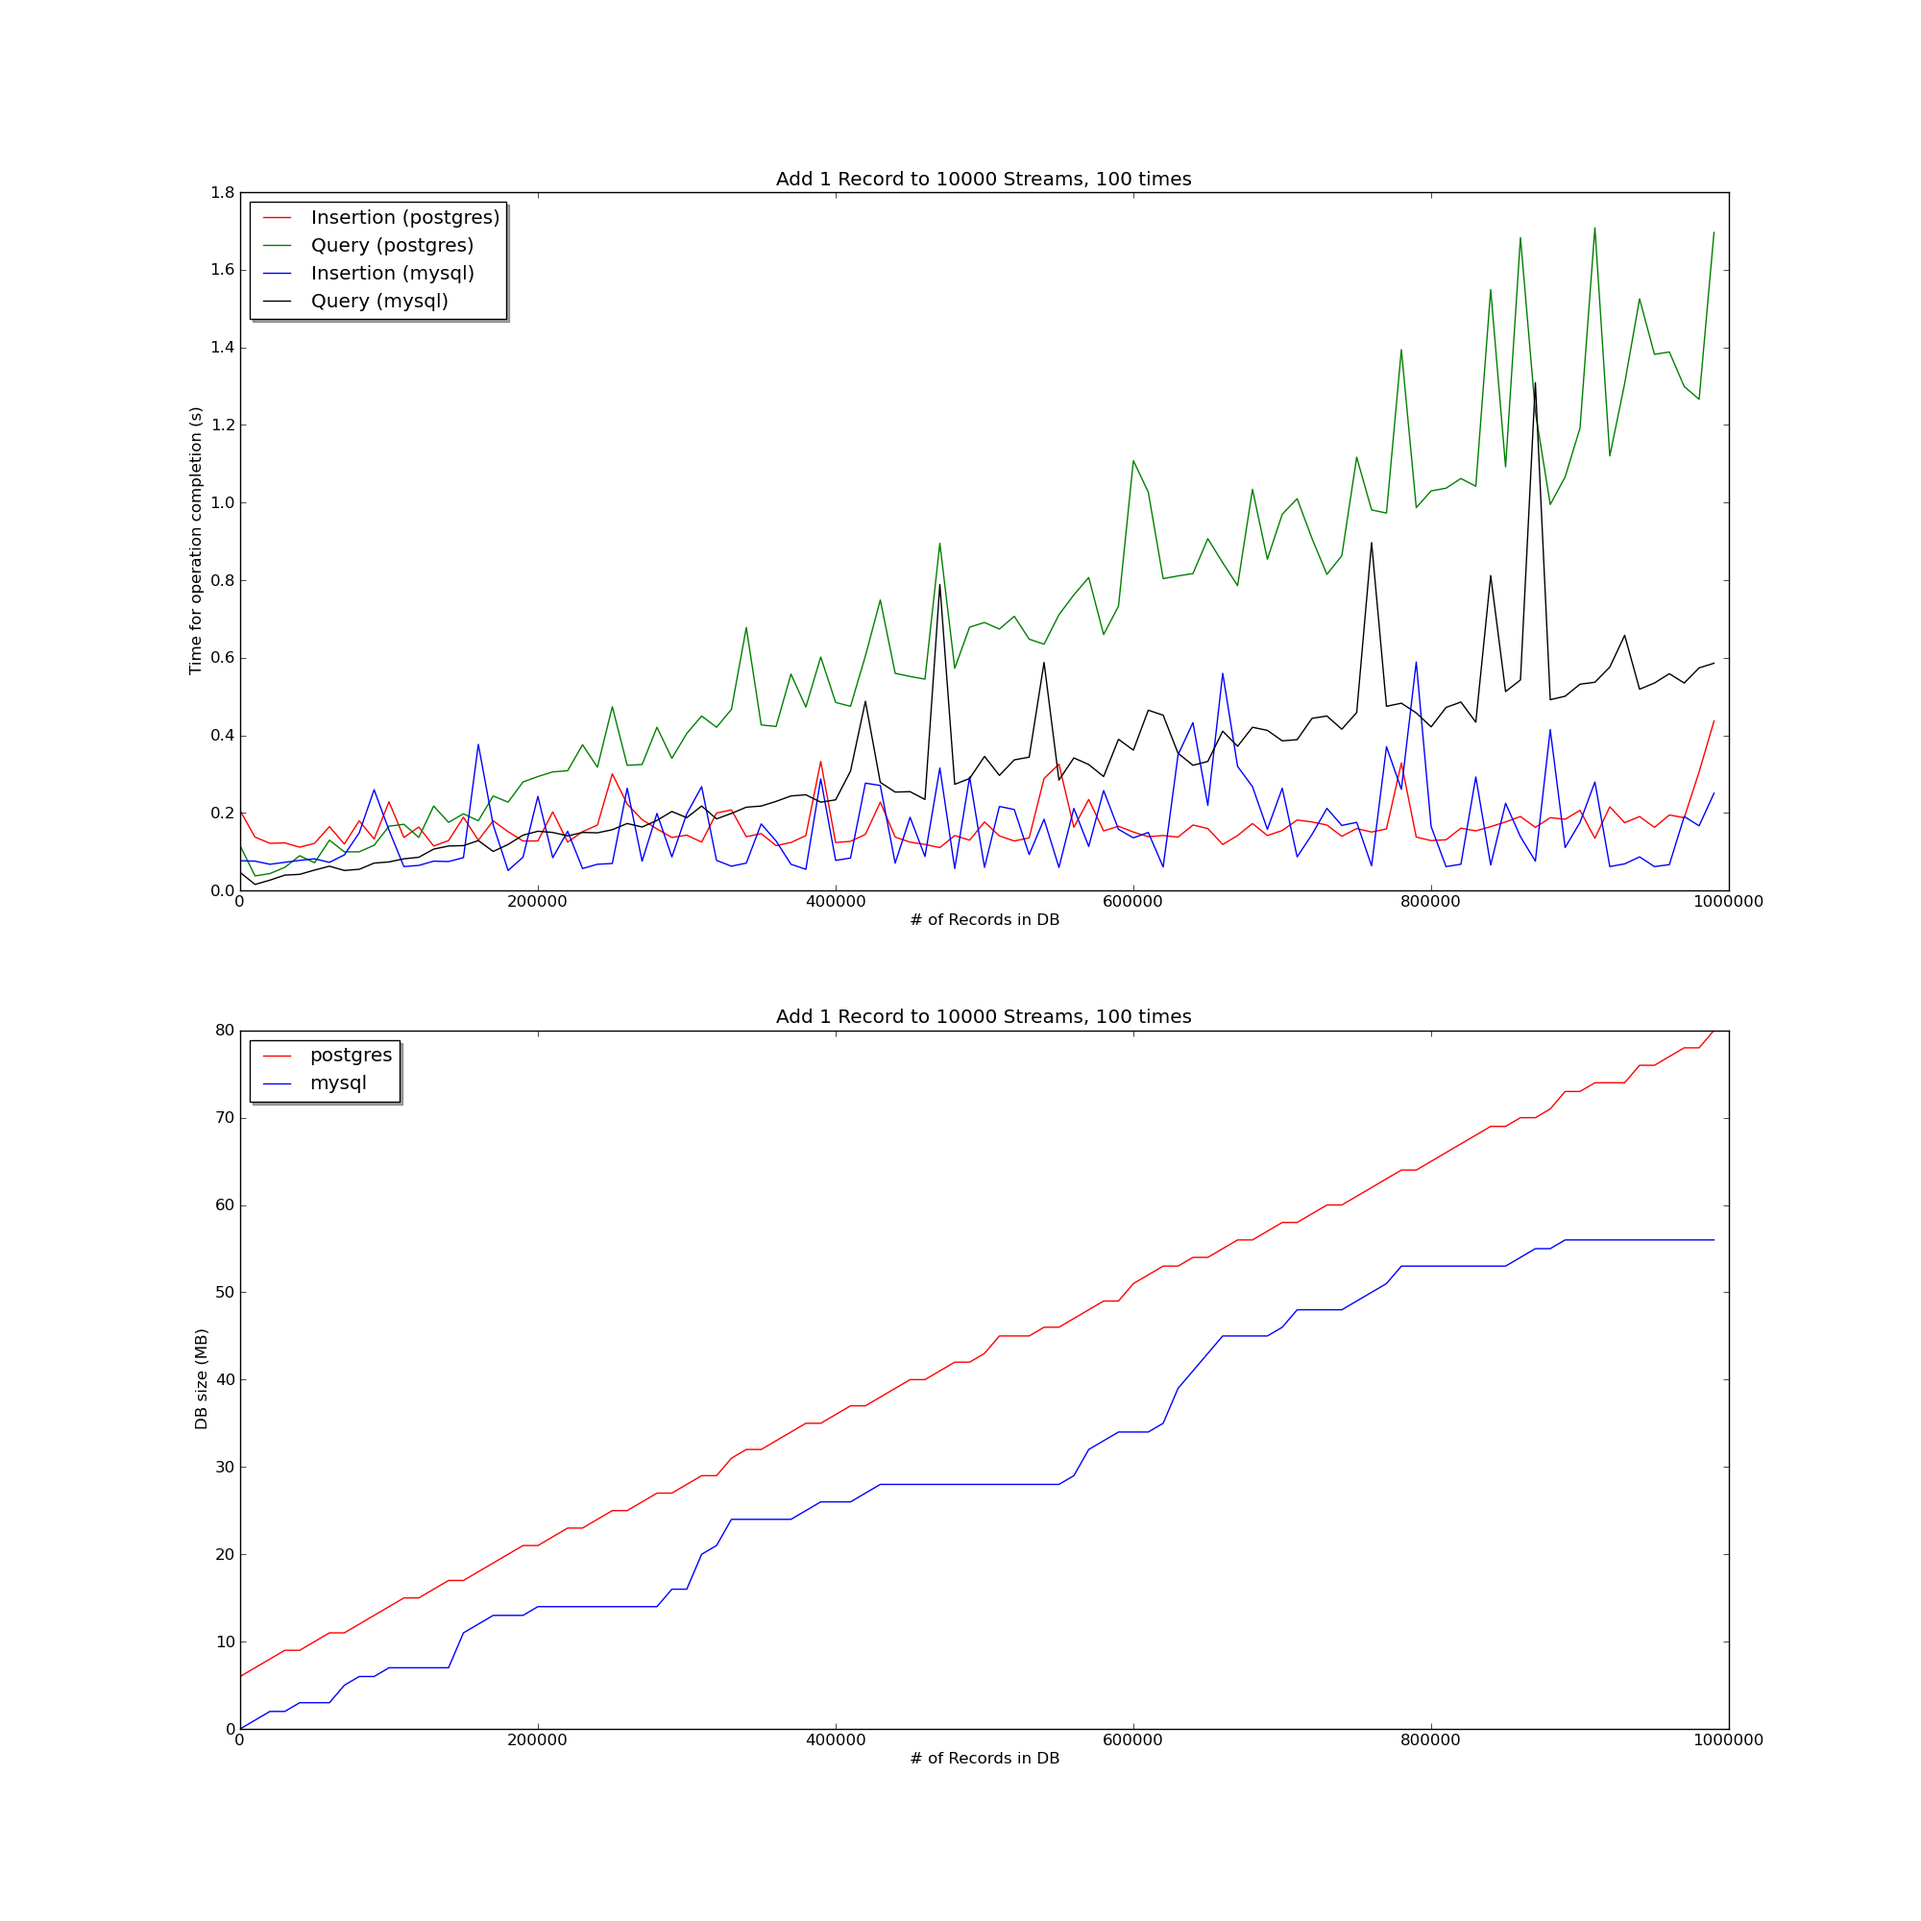
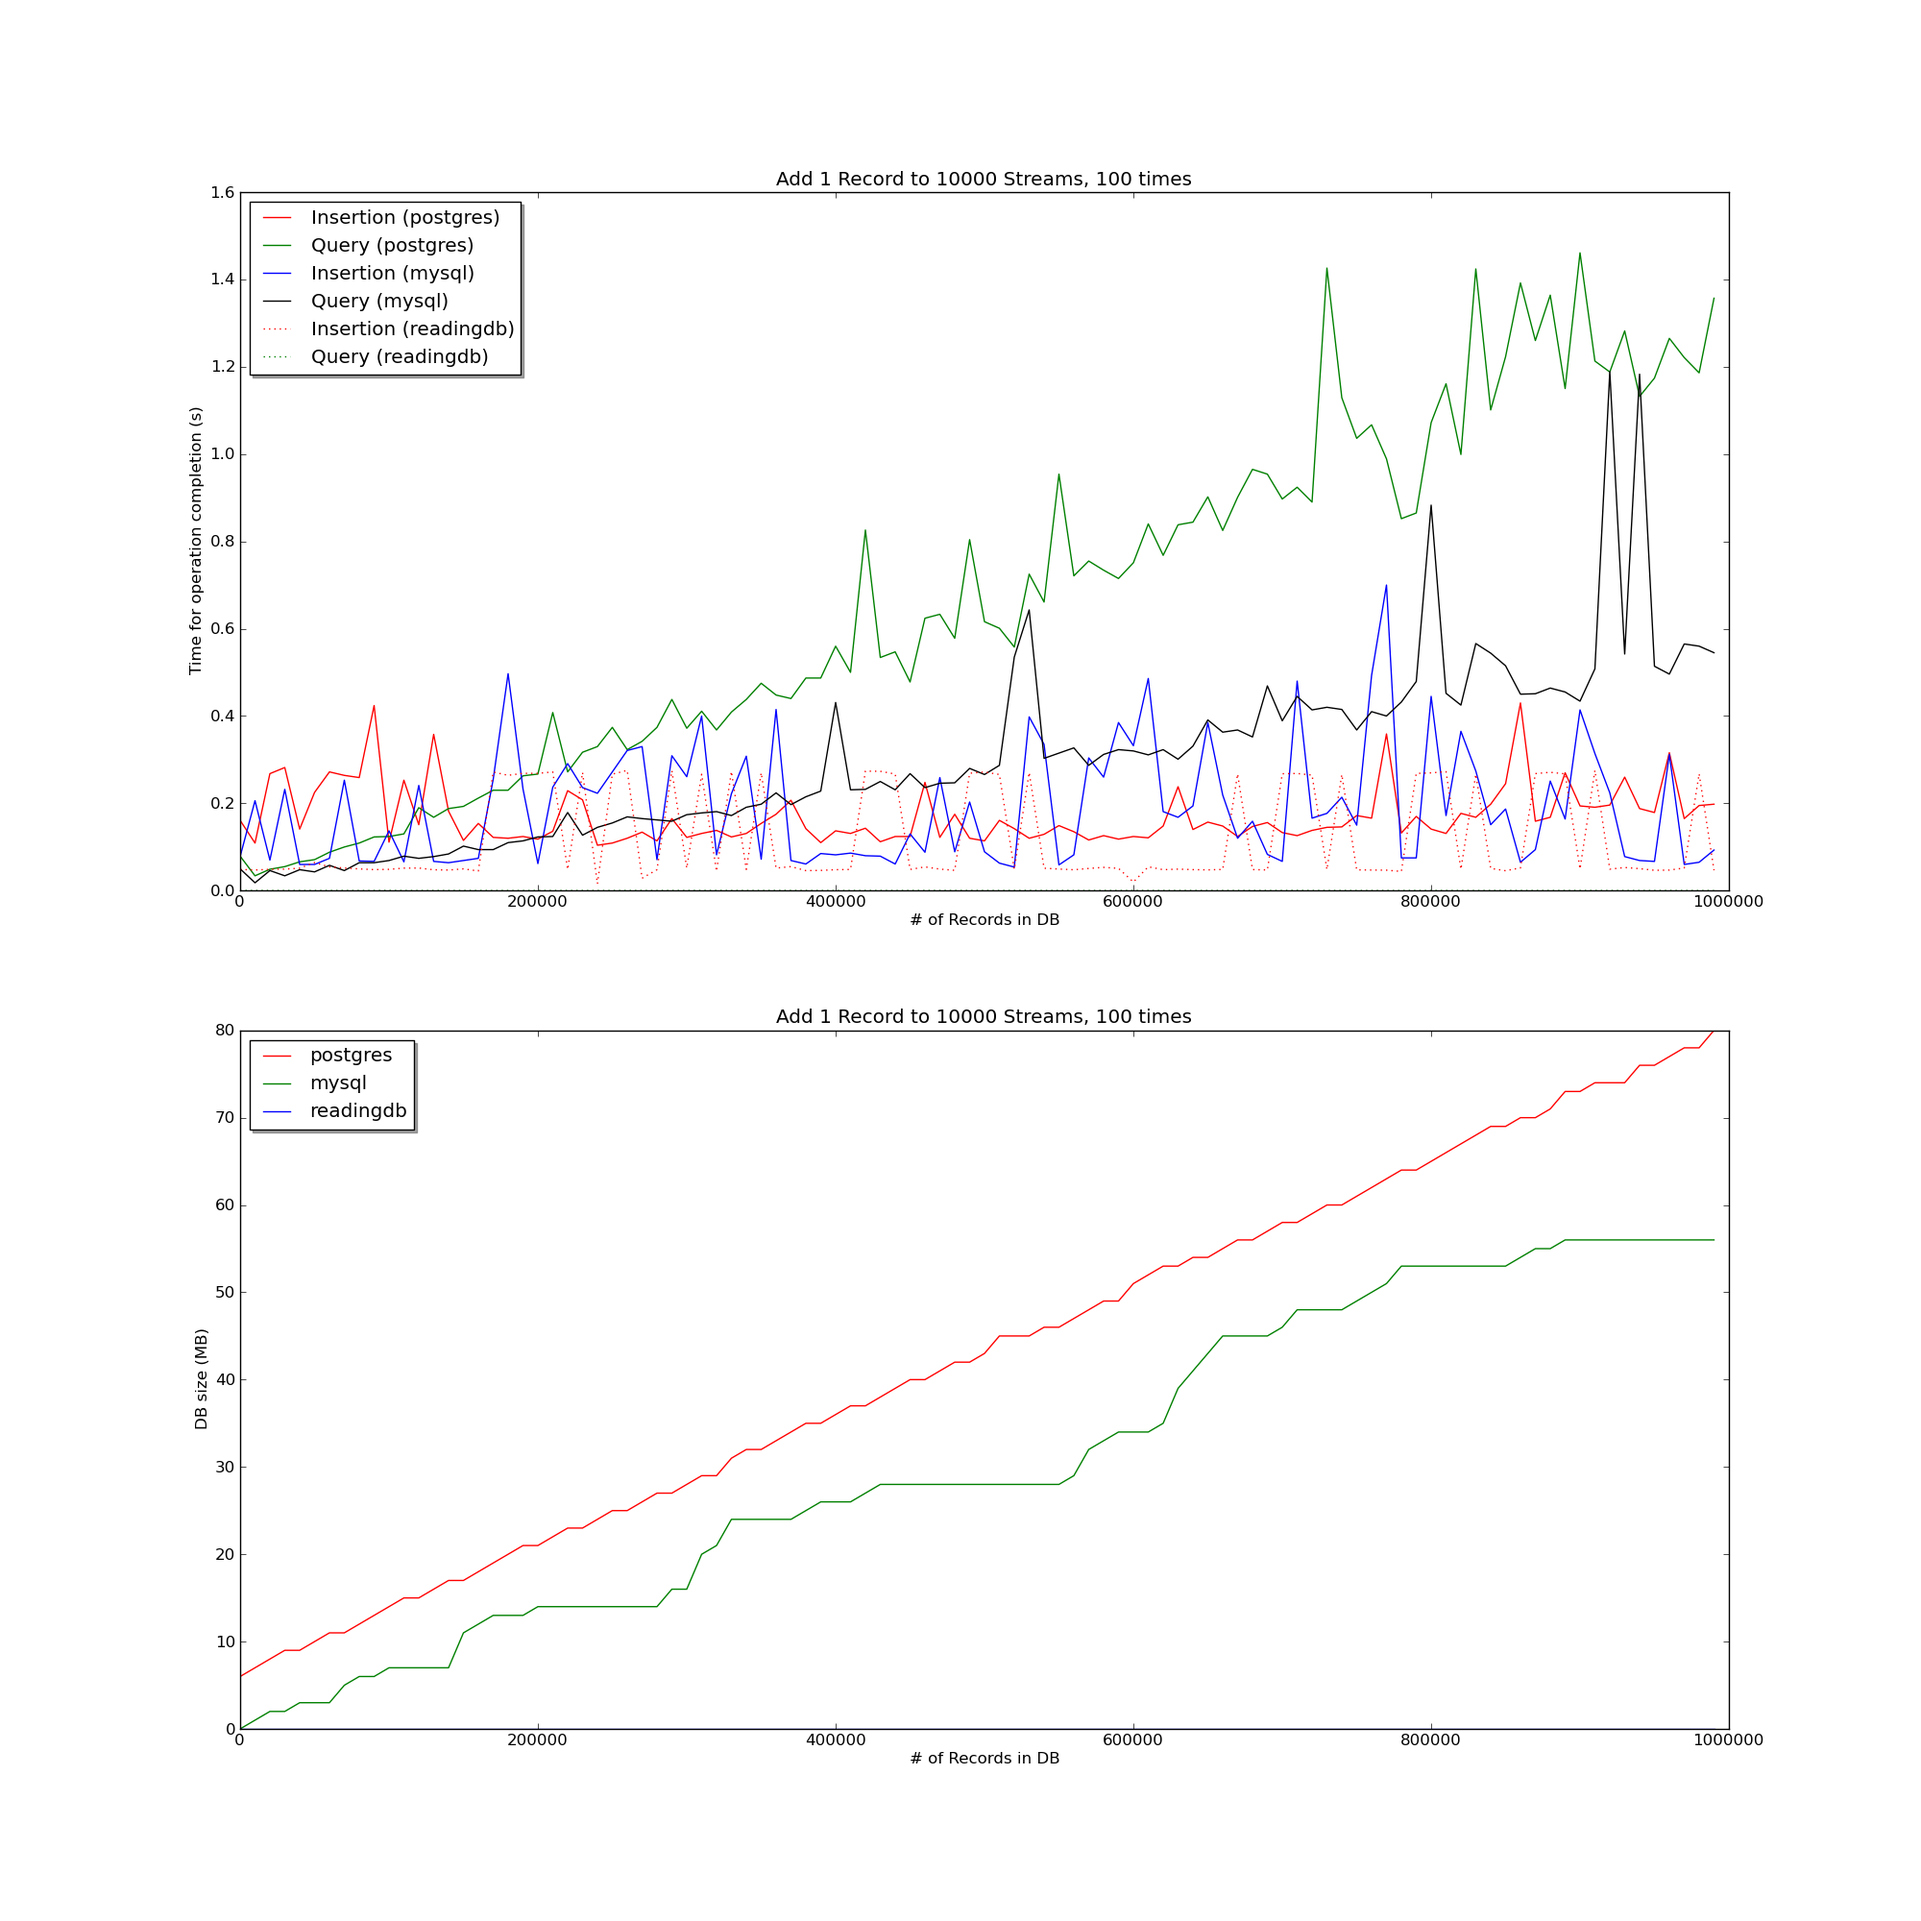
oops itervals not intervals

diff --git a/logparse/logparser.py b/logparse/logparser.py
@@ -7,8 +7,8 @@ import numpy as np
 
 DB_NAMES = ["mysql", "opentsdb", "postgres", "readingdb", "scidb"]
 itervals = ['r-', 'g-', 'b-', 'k-', 'r:', 'g:', 'b:', 'k:']
-graph_1_iter = iter(intervals)
-graph_2_iter = iter(intervals)
+graph_1_iter = iter(itervals)
+graph_2_iter = iter(itervals)
 
 
 
